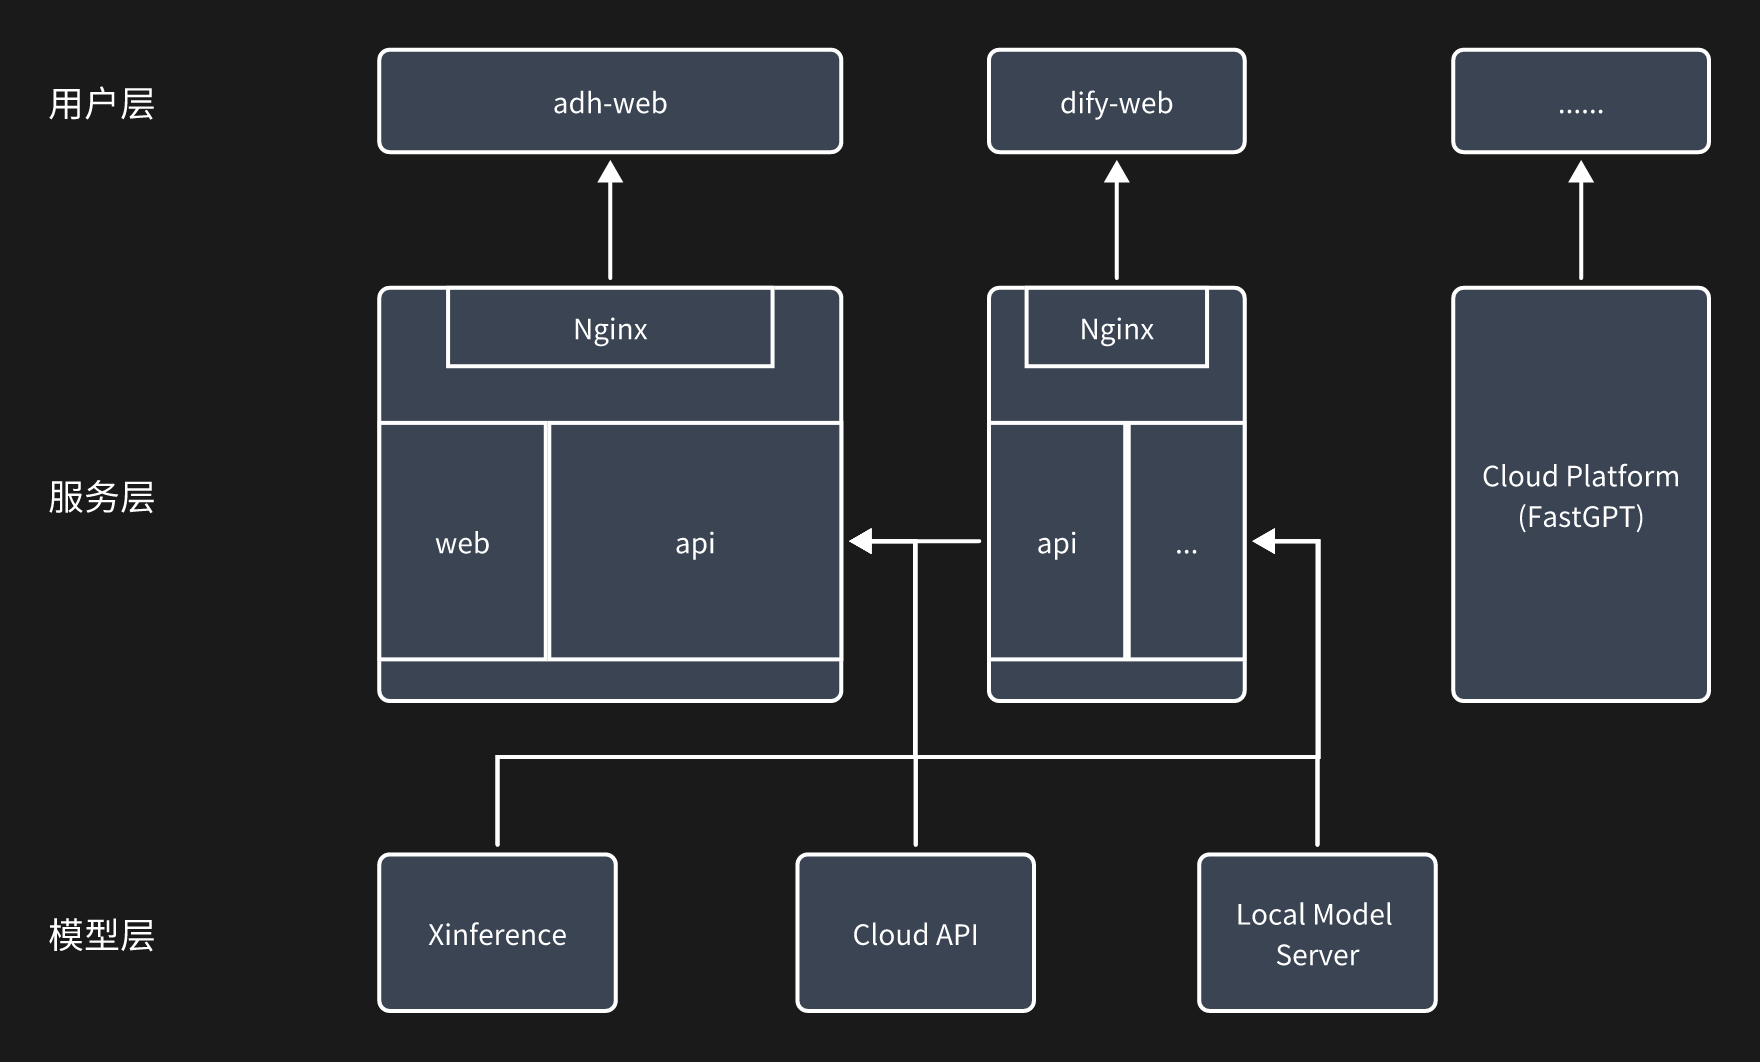
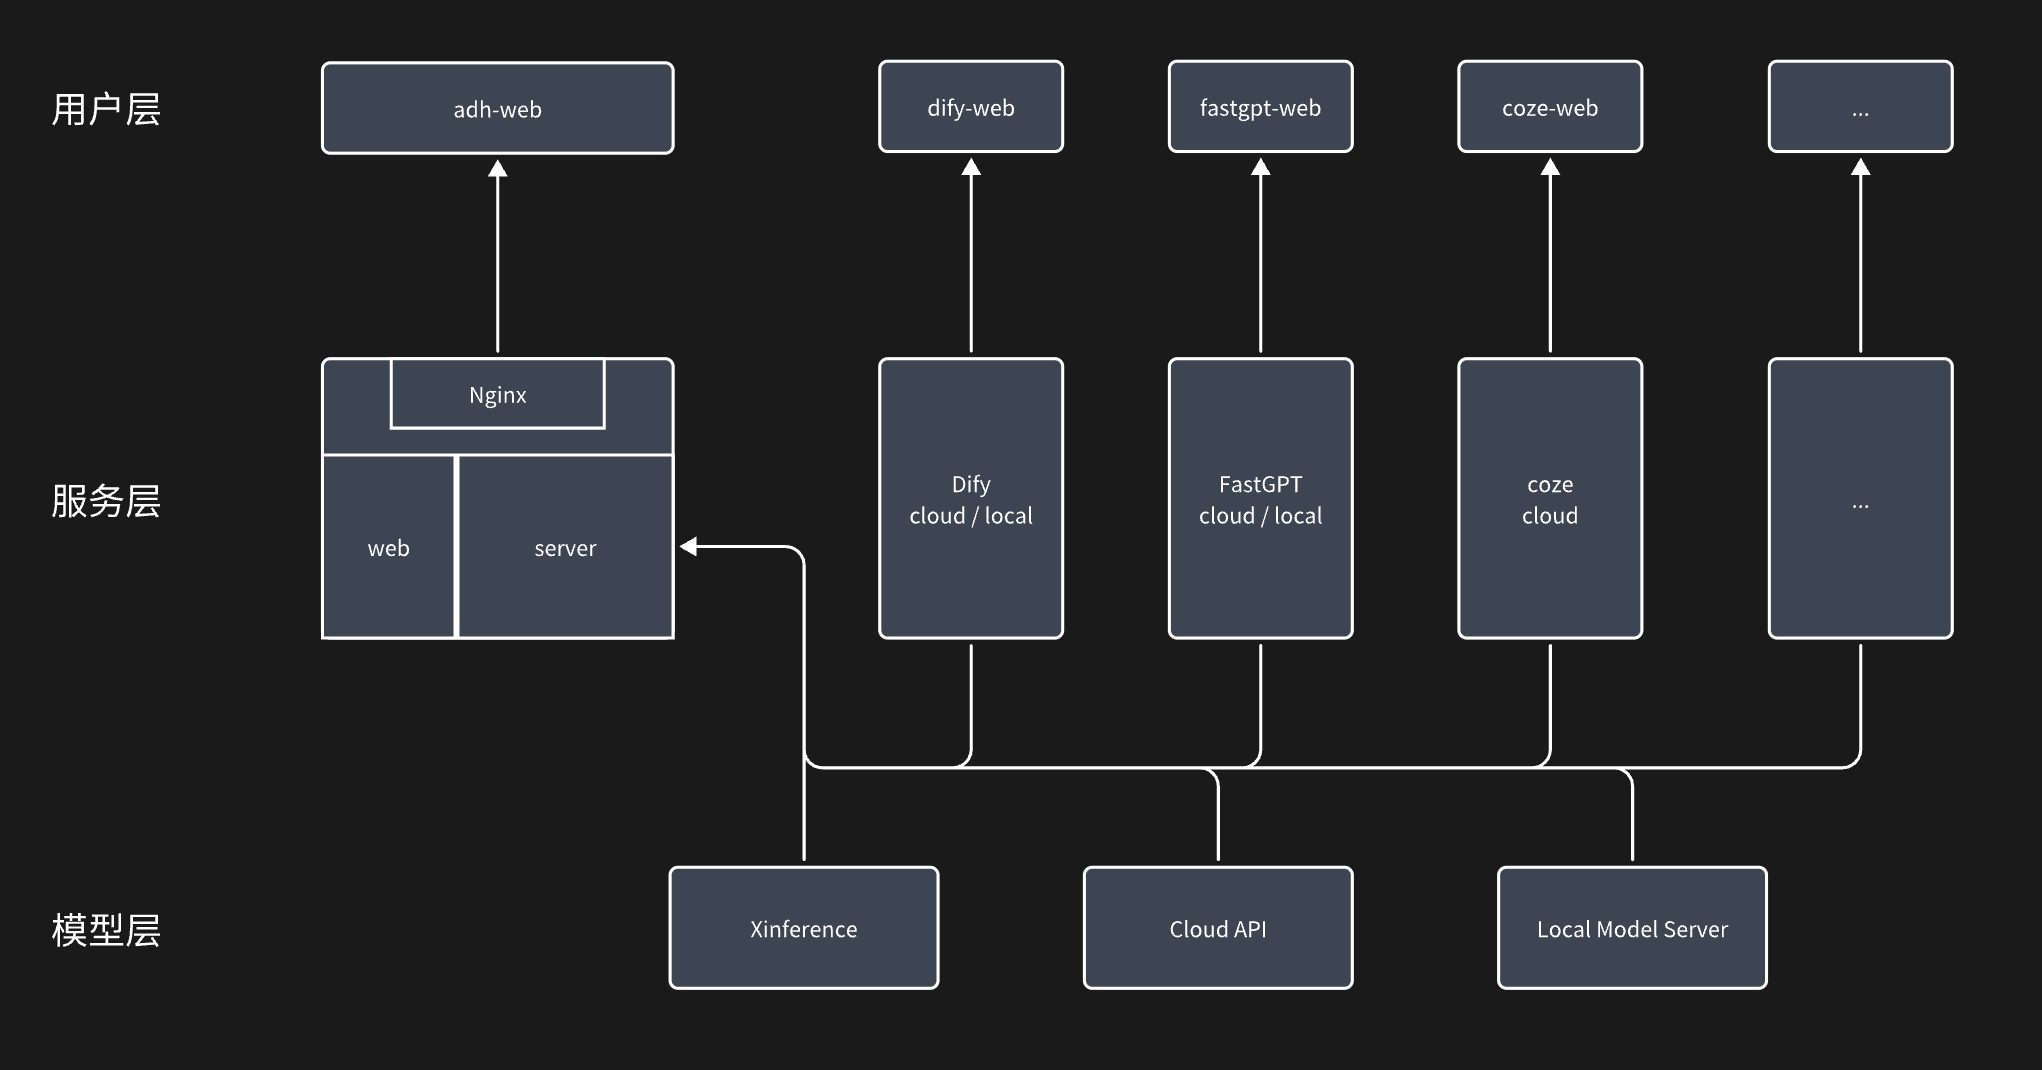
update: readme support coze

diff --git a/digitalHuman/engine/tts/cozeTTS.py b/digitalHuman/engine/tts/cozeTTS.py
@@ -19,56 +19,57 @@ class CozeApiTts(BaseTTSEngine):
     def setup(self):
         self.url = "https://api.coze.cn/v1/audio/speech"
         # TODO: 多人请求差异化
-        self.voicesMap = {}
+        # self.voicesMap = {}
 
-    async def voices(self, **kwargs) -> List[VoiceDesc]:
-        # 参数校验
-        paramters = self.checkParameter(**kwargs)
-        API_TOKEN = paramters["token"]
-        if not API_TOKEN: return []
-        headers = {
-            'Authorization': f'Bearer {API_TOKEN}',
-            'Content-Type': 'application/json'
-        }
-        resp = []
-        page_num = 1
-        page_size = 100
-        while True:
-            payload = {
-                "page_num": page_num,
-                "page_size": page_size
-            }
-            response = await httpxAsyncClient.get("https://api.coze.cn/v1/audio/voices", headers=headers, params=payload)
-            result = checkResponse(response, "CozeApiTts", "get voice list")
-            has_more = result['data']['has_more']
-            voices = result['data']['voice_list']
-            self.voicesMap.update((voice['name'], voice['voice_id']) for voice in voices)
-            for voice in voices:
-                resp.append(VoiceDesc(
-                    name=voice['name'],
-                    gender=GENDER_TYPE.FEMALE if 'female' in voice['speaker_id'] else GENDER_TYPE.MALE,
-                ))
-            if has_more:
-                page_num += 1
-            else:
-                break
-        return resp
+    # async def voices(self, **kwargs) -> List[VoiceDesc]:
+    #     # 参数校验
+    #     paramters = self.checkParameter(**kwargs)
+    #     API_TOKEN = paramters["token"]
+    #     if not API_TOKEN: return []
+    #     headers = {
+    #         'Authorization': f'Bearer {API_TOKEN}',
+    #         'Content-Type': 'application/json'
+    #     }
+    #     resp = []
+    #     page_num = 1
+    #     page_size = 100
+    #     while True:
+    #         payload = {
+    #             "page_num": page_num,
+    #             "page_size": page_size
+    #         }
+    #         response = await httpxAsyncClient.get("https://api.coze.cn/v1/audio/voices", headers=headers, params=payload)
+    #         result = checkResponse(response, "CozeApiTts", "get voice list")
+    #         has_more = result['data']['has_more']
+    #         voices = result['data']['voice_list']
+    #         self.voicesMap.update((voice['name'], voice['voice_id']) for voice in voices)
+    #         for voice in voices:
+    #             resp.append(VoiceDesc(
+    #                 name=voice['name'],
+    #                 gender=GENDER_TYPE.FEMALE if 'female' in voice['speaker_id'] else GENDER_TYPE.MALE,
+    #             ))
+    #         if has_more:
+    #             page_num += 1
+    #         else:
+    #             break
+    #     return resp
 
     async def run(self, input: TextMessage, **kwargs) -> AudioMessage:
         # 参数校验
         paramters = self.checkParameter(**kwargs)
-        API_TOKEN = paramters["token"]
-        VOICE = paramters["voice"]
+        token = paramters["token"]
+        bot_id = paramters["bot_id"]
 
         headers = {
-            'Authorization': f'Bearer {API_TOKEN}',
+            'Authorization': f'Bearer {token}',
             'Content-Type': 'application/json'
         }
 
-        if not self.voicesMap:
-            # 如果没有声音列表，则获取声音列表
-            await self.voices(**kwargs)
-        voice_id = self.voicesMap.get(VOICE, VOICE)
+        # 获取智能体配置信息
+        response = await httpxAsyncClient.get(f"https://api.coze.cn/v1/bots/{bot_id}", headers=headers)
+        resp = checkResponse(response, "CozeApiTts", "get bot info")
+        voice_id = resp['data']['voice_info_list'][0]['voice_id']
+
         payload = {
             'input': input.data,
             'voice_id': voice_id,

diff --git a/digitalHuman/engine/tts/tencentTTS.py b/digitalHuman/engine/tts/tencentTTS.py
@@ -169,7 +169,7 @@ class TencentApiTts(BaseTTSEngine):
 
         return (headers, payload)
 
-    async def voices(self) -> List[VoiceDesc]:
+    async def voices(self, **kwargs) -> List[VoiceDesc]:
         return [VoiceDesc(name=v.name, gender=v.gender) for v in VOICE_LIST]
     
     async def run(self, input: TextMessage, **kwargs) -> AudioMessage:

diff --git a/digitalHuman/engine/tts/edgeTTS.py b/digitalHuman/engine/tts/edgeTTS.py
@@ -80,7 +80,7 @@ VOICE_LIST = [
 ]
 @TTSEngines.register("EdgeTTS")
 class EdgeApiTts(BaseTTSEngine):
-    async def voices(self) -> List[VoiceDesc]:
+    async def voices(self, **kwargs) -> List[VoiceDesc]:
         return VOICE_LIST
         """
         结构体

diff --git a/README.md b/README.md
@@ -1,5 +1,5 @@
 # AWESOME-DIGITAL-HUMAN
-**打造一个有温度的数字人**  
+**打造有温度的数字人**  
 **给数字人注入灵魂**  
 ---  
 🎉🎉🎉 社区官网公测版本正式发布: https://www.light4ai.com  
@@ -8,7 +8,7 @@
 * 个人应用管理  
 * 内置服务接入  
 * 限定主题  
-* 应用分享
+* 应用分享(链接分享、网页嵌入分享)
 ###### *社区业余时间发电，你的star是我们最大的动力，感谢！*
 ---  
 
@@ -18,19 +18,20 @@ https://github.com/user-attachments/assets/6596fdb6-d9a1-4936-8c3d-312c683690b6
 ## 主要特性
 * 支持 Docker 快速部署
 * 超轻量级，配置要求低于2核2G
-* 支持 Dify/FastGPT 等编排框架服务接入
+* 支持 Dify/FastGPT/Coze 等编排框架服务接入
 * 支持 ASR、LLM、TTS、Agent 模块化扩展
 * 支持 Live2d 人物模型扩展和控制方式
 * 支持PC端和移动端web访问
-* 支持智能对话  
+* 支持沉浸式智能对话  
 PC端页面预览：  
 ![](./assets/pc_web.png)  
 移动端页面预览：  
 ![](./assets/phone_web.png)
 
 ## 设计架构
-大模型的厂商众多、各种工具繁多、要打造自己的数字人需要一定的代码能力和时间投入。
-基于Dify等框架健全的应用模版和编排框架，让一切变得更加简单。  
+大模型的厂商众多、各种工具繁多、要打造自己的数字人需要一定的代码能力和时间投入。  
+可通过Coding扩展模块，让一切变得高度定制化。  
+可通过Agent编排框架，让一切变得更加简单。  
 ![](./assets/arch.png)
 
 ## 模式支持
@@ -41,6 +42,7 @@ PC端页面预览：
 * ReapterAgent（测试使用）：重复用户输入的语句  
 * DifyAgent：接入Dify的服务  
 * FastgptAgent：接入fastgpt的服务  
+* CozeAgent：接入coze的服务
 * OpenaiAgent：接入适配openai接口的服务  
 
 ## 版本记录
@@ -70,9 +72,13 @@ PC端页面预览：
   * 沉浸模式（实时交互、对话打断等等直接交互方式优化）
   * 支持流式引擎([协议文档](./docs/streaming_protocol.md))
     * FunASR streaming(在沉浸模式可选)  
-  - [ ] 豆包支持
+  * Agent扩展支持：CozeAgent（ASR、TTS均可接入Coze）
 
-
+## TODOList
+- [ ] rtc音视频流支持
+- [ ] 跨模态交互支持(麦克风/摄像头)
+- [ ] 人物模型AI生成尝试
+- [ ] 情感控制人物表情动作支持
 
 ## 部署&开发
 [部署说明](./docs/deploy_instrction.md)  
@@ -89,7 +95,8 @@ PC端页面预览：
 [dify源码解析-RAG](https://zhuanlan.zhihu.com/p/704341817)  
 [RAG-索引之PDF文档解析](https://zhuanlan.zhihu.com/p/707271297)  
 [Dify打造专属数字人灵魂](https://zhuanlan.zhihu.com/p/714961925)  
-[数字人的All in Dify](https://zhuanlan.zhihu.com/p/716359038)
+[数字人的All in Dify](https://zhuanlan.zhihu.com/p/716359038)  
+[数字人的All in Coze](https://zhuanlan.zhihu.com/p/1928506957968413871)
   
 **微信公众号板块**  
 [数字人-定义数字世界中的你](https://mp.weixin.qq.com/s/SQvFysHO8daN0HMA0AaJZw)  
@@ -97,7 +104,8 @@ PC端页面预览：
 [dify源码解析-RAG](https://mp.weixin.qq.com/s/muCTFTWLY8j5UtxwCaW93A)  
 [RAG-索引之PDF文档解析](https://mp.weixin.qq.com/s/innbTL6aeOsl9vyJSN6yBw)  
 [Dify打造专属数字人灵魂](https://mp.weixin.qq.com/s/3B4YgYjDY42DNTgE76XOtw)  
-[数字人的All in Dify](https://mp.weixin.qq.com/s/Uf17jWpjVzAfzX42TP09gw)
+[数字人的All in Dify](https://mp.weixin.qq.com/s/Uf17jWpjVzAfzX42TP09gw)  
+[数字人的All in Coze](https://mp.weixin.qq.com/s/DbFUmmxBmlPgMOQ16tRDfw)
 
 **Dify 官方板块**  
 [Dify公众号文章：使用 Dify 打造数字人灵魂](https://mp.weixin.qq.com/s?__biz=Mzg5MDkyOTY3NA==&mid=2247486070&idx=3&sn=0911ba8723278a83c1554afd2de861ab&chksm=cefc58effe2456e39a9f0f0afac4ec5447bb1aafff42a68d05b2a3f523baae299b93d7ae6ff9&mpshare=1&scene=1&srcid=1021NXKMC2W697dCXEwqsCkN&sharer_shareinfo=93041ce9bdefcde0aa121d27a3f3f6dd&sharer_shareinfo_first=8c8f03435bc9af5236a4505b831d1388&exportkey=n_ChQIAhIQQaNAHzm7bGdYinsq2L2zbRKfAgIE97dBBAEAAAAAANTKKNX7j3cAAAAOpnltbLcz9gKNyK89dVj0%2F3Ojxo5%2FA9C00dmnAyJraAwSYIfMr4csl8xZvE%2FSwCi3nKbPJZ4mnLdQdVm2EQP2SNJQIMUqV1PGB%2BGpSSdjOs6L7ejtFS9GCpkr6LMmAKVW904Tu4tGhZwjaU14QjLRGXZ7rQEKMOQjdQTyDf%2BluwFEDAXlLMozezq6ypTwXIu0HoLjs4Q6x4gtHS%2BpH6vhOfGgR7LtVbZcXAFFWokyvREiMuHayOSrjtpDD9CQK5KYELY7Ejd%2B48JRj7dRJZiAGebg2KRYtB7%2BpJqgyKaNO4mCcT%2BT9KjHq4WIssWaF0Vq5G4D2el%2FhIgfuEpreoR1hUKOMkcBiAXZ&acctmode=0&pass_ticket=Tg8MLw6UPqgdcjRxs7YP26i09LNlJcKEH%2Bw9YwPdaE4OzNwhW7RbDzgVM3X5rkY1&wx_header=0#rd)
